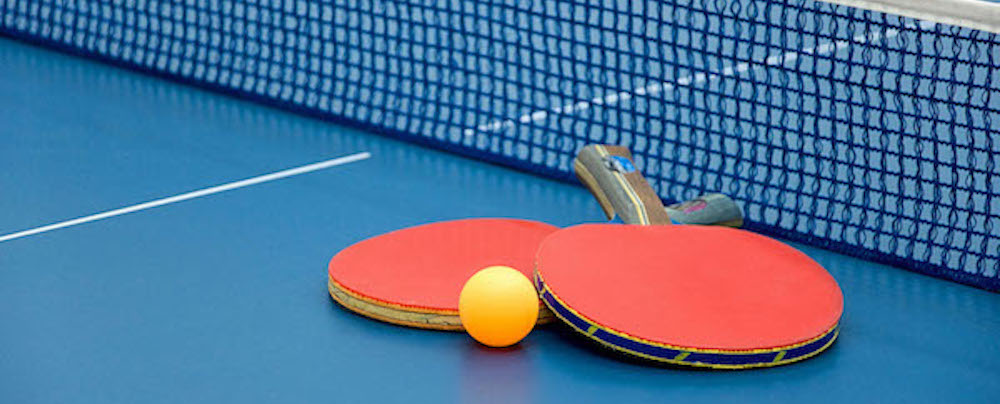
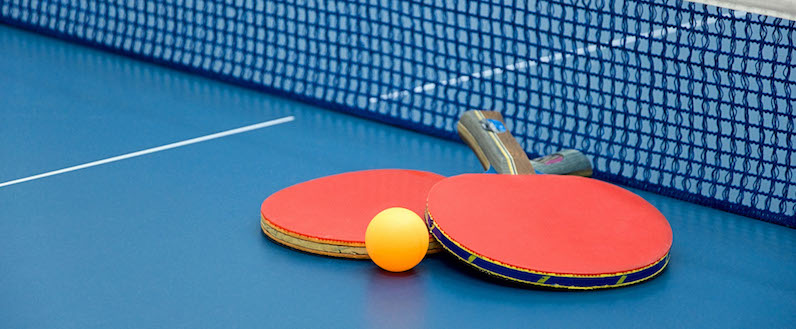
update header image and body background color in styles.css.

diff --git a/css/styles.css b/css/styles.css
@@ -1,15 +1,23 @@
+body {
+  background-color: rgb(165,198,218);
+}
+.container{
+  background-color: white;
+}
 .jumbotron {
   text-align: center;
   padding: 2%;
   background-image: url("../img/pingpong.jpg");
   background-position: bottom left;
-  opacity: 0.2;
+  opacity: 0.5;
+  margin-top: 10px;
 }
 
 .jumbotron h1 {
-  color: darkblue;
   font-weight: bold;
+  color: #01193f;
 }
+
 .well {
   background-color: rgb(246, 249, 243);
 }
